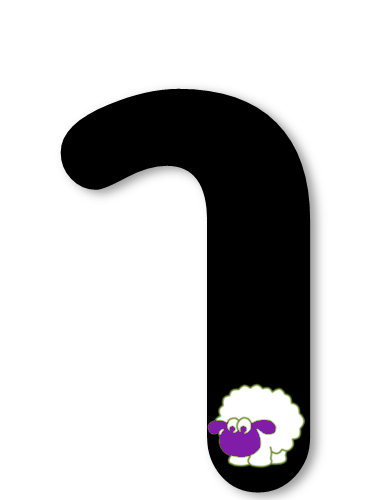
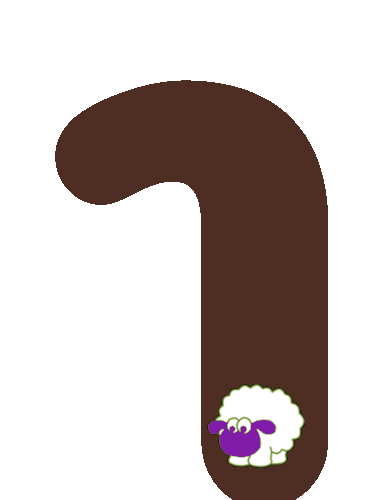
update letters

Changed region(s): [[0.1447, 0.15, 0.8684, 1.0]]

diff --git a/public/views/firstLetter.html b/public/views/firstLetter.html
@@ -55,7 +55,7 @@
             <li class="letter"></li>
             <li><img src="images/letters/Zadik1.png"  style="width:60px;height:60px"></li>
             <li><img src="images/letters/Taf.png"  style="width:60px;height:60px"></li>
-            <li><img src="images/letters/Zadik.png"  style="width:60px;height:60px"></li>
+            <li><img src="images/letters/Zadik.png"  style="width:50px;height:60px"></li>
             <li><img src="images/letters/Mem.png"  style="width:60px;height:60px"></li>
             <li><img src="images/letters/Nun.png"  style="width:60px;height:60px"></li>
             <li><img src="images/letters/Hey.png"  style="width:60px;height:60px"></li>
